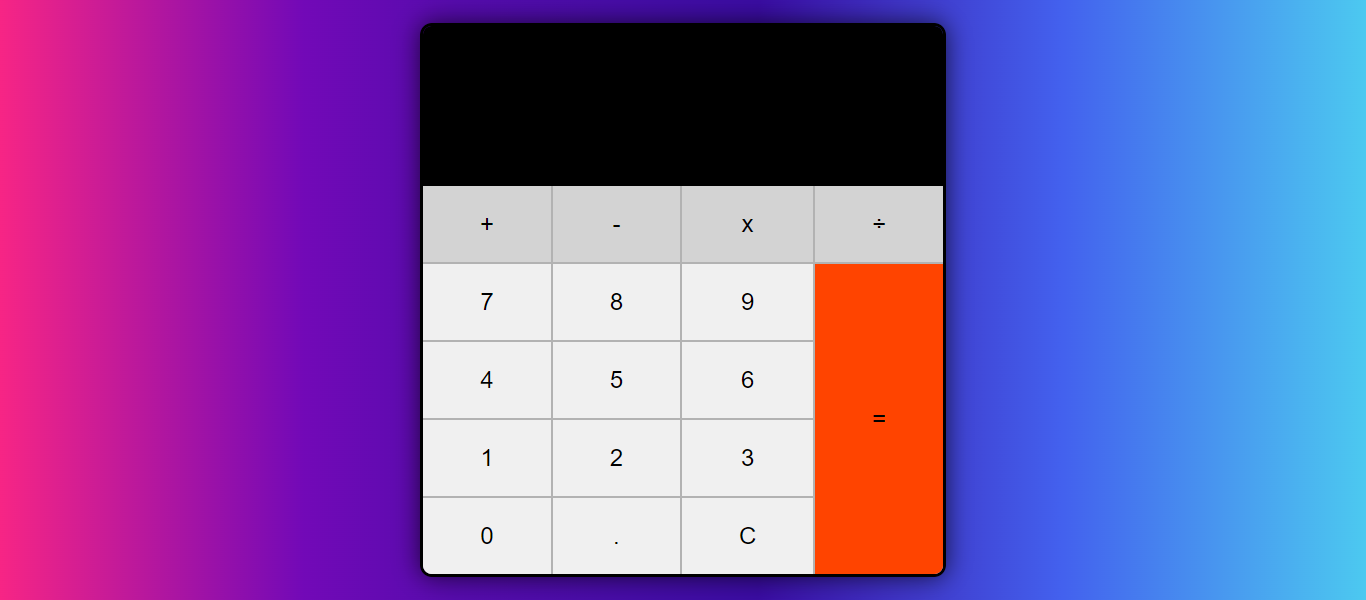
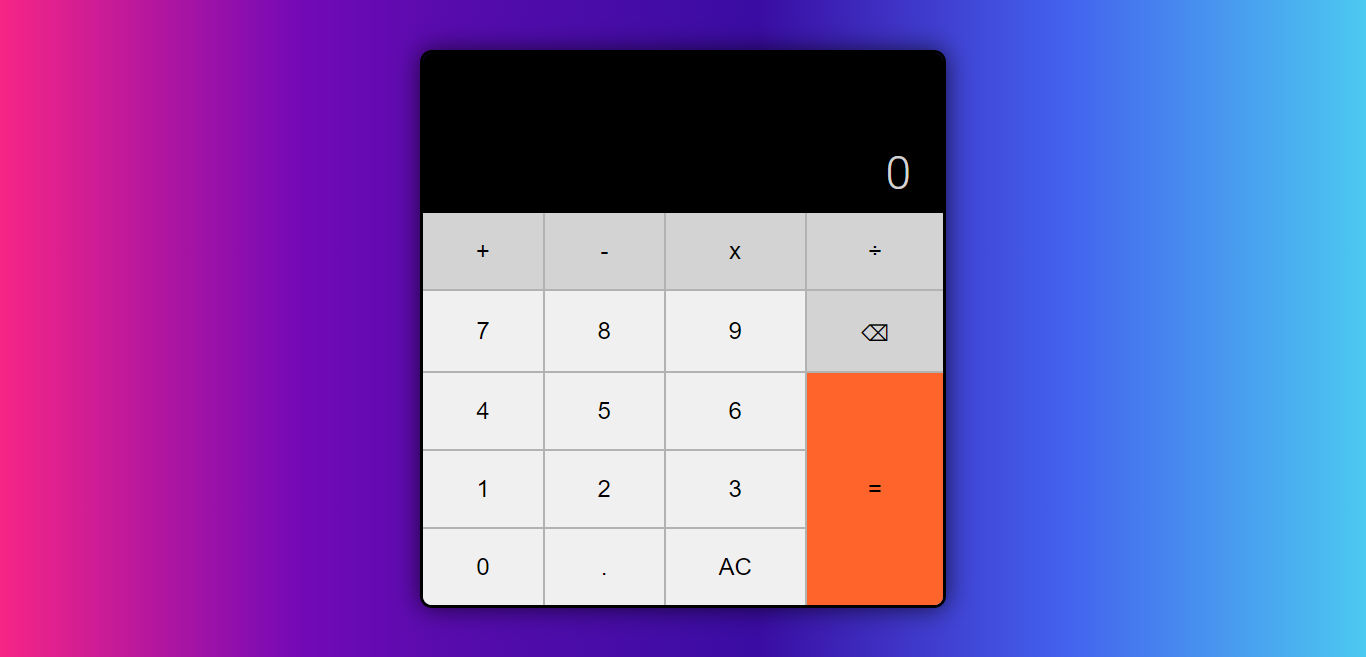
Calculator
Added a backspace button. The buttons change the colors when active.

diff --git a/3-calculator/app.js b/3-calculator/app.js
@@ -2,70 +2,14 @@ let currentNumber = '';
 let previousNumber = '';
 let operator = '';
 
-window.addEventListener('keydown', handleKeyPress)
-
 const currentDisplayNumber = document.querySelector('.display_current');
 const previousDisplayNumber = document.querySelector('.display_previous');
-
 const equal = document.querySelector('.equal');
-equal.addEventListener('click', () => {
-  if(currentNumber != '' && previousNumber != '') {
-    calculate();
-  }
-})
 const decimal = document.querySelector('.decimal');
-decimal.addEventListener('click', () => {
-  addDecimal();
-})
 const clear = document.querySelector('.clear');
-clear.addEventListener('click', clearCalculator)
 const numberButtons = document.querySelectorAll('.number');
 const operators = document.querySelectorAll('.operator');
-
-numberButtons.forEach(btn => {
-  btn.addEventListener('click', (e) => {
-    handleNumber(e.target.textContent);
-  })
-})
-
-function handleNumber (number) {
-  if(previousNumber !== '' && currentNumber !== '' && operator === '') {
-    previousNumber = '';
-    currentDisplayNumber.textContent = currentNumber;
-  }
-  if (currentNumber.length <= 11) {
-    currentNumber += number;
-    currentDisplayNumber.textContent = currentNumber;
-  }
-}
-
-operators.forEach(btn => {
-  btn.addEventListener('click', (e) => {
-    handleOperator(e.target.textContent)
-  })
-})
-
-function handleOperator(op) {
-  if (previousNumber === '') {
-    previousNumber = currentNumber;
-    operatorCheck(op);
-  } else if (currentNumber === '') {
-    operatorCheck(op);
-  } else {
-    calculate();
-    operator = op;
-    currentDisplayNumber.textContent = '0';
-    previousDisplayNumber.textContent = previousNumber + ' ' + operator;
-  }
-}
-
-function operatorCheck (text) {
-  operator = text;
-  previousDisplayNumber.textContent = previousNumber + ' ' + operator;
-  currentDisplayNumber.textContent = '0';
-  currentNumber = '';
-
-}
+const bksp = document.querySelector('.bksp');
 
 function calculate() {
   previousNumber = Number(previousNumber);
@@ -89,10 +33,6 @@ function calculate() {
   displayResults();
 }
 
-function roundNumber(num) {
-  return Math.round(num * 100000) / 100000;
-}
-
 function displayResults() {
   if(previousNumber.length <= 11) {
     currentDisplayNumber.textContent = previousNumber;
@@ -104,12 +44,65 @@ function displayResults() {
   currentNumber = '';
 }
 
-function clearCalculator () {
-  currentNumber = '';
-  previousNumber = '';
-  operator = '';
-  currentDisplayNumber.textContent = '';
-  previousDisplayNumber.textContent = '';
+function roundNumber(num) {
+  return Math.round(num * 100000) / 100000;
+}
+
+window.addEventListener('keydown', handleKeyPress)
+
+function handleKeyPress(e) {
+  e.preventDefault()
+  if(e.key >= 0 && e.key <= 9){
+    processNumber(e.key)
+  }
+  if(
+    e.key === 'Enter' || 
+    e.key === "=" && currentNumber != '' && previousNumber != ''){
+    calculate();
+  }
+  if(
+    e.key === "+" || 
+    e.key === "-" || 
+    e.key === "/") {
+    executeOperator(e.key)
+  }
+  if (e.key === '*') {
+    executeOperator('x');
+  }
+  if(e.key === '.') {
+    addDecimal();
+  }
+  if (e.key === 'Backspace') {
+    handleBackspace();
+  }
+  if (e.key === 'Delete') {
+    clearCalculator();
+  }
+}
+
+function processNumber (number) {
+  if(previousNumber !== '' && currentNumber !== '' && operator === '') {
+    previousNumber = '';
+    currentDisplayNumber.textContent = currentNumber;
+  }
+  if (currentNumber.length <= 11) {
+    currentNumber += number;
+    currentDisplayNumber.textContent = currentNumber;
+  }
+}
+
+function executeOperator(op) {
+  if (previousNumber === '') {
+    previousNumber = currentNumber;
+    operatorCheck(op);
+  } else if (currentNumber === '') {
+    operatorCheck(op);
+  } else {
+    calculate();
+    operator = op;
+    currentDisplayNumber.textContent = '0';
+    previousDisplayNumber.textContent = previousNumber + ' ' + operator;
+  }
 }
 
 function addDecimal () {
@@ -119,33 +112,7 @@ function addDecimal () {
   }
 }
 
-function handleKeyPress(e) {
-  e.preventDefault()
-  if(e.key >= 0 && e.key <= 9){
-    handleNumber(e.key)
-  }
-  if(e.key === 'Enter' || 
-  e.key === "=" && currentNumber != '' && previousNumber != ''){
-    calculate();
-  }
-  if(e.key === "+" || e.key === "-" || e.key === "/") {
-    handleOperator(e.key)
-  }
-  if (e.key === '*') {
-    handleOperator('x');
-  }
-  if(e.key === '.') {
-    addDecimal();
-  }
-  if (e.key === 'Backspace') {
-    handleDelete();
-  }
-  if (e.key === 'Delete') {
-    clearCalculator();
-  }
-}
-
-function handleDelete() {
+function handleBackspace() {
   if (currentNumber != '') {
     currentNumber = currentNumber.slice(0, -1);
     currentDisplayNumber.textContent = currentNumber;
@@ -158,3 +125,46 @@ function handleDelete() {
     currentDisplayNumber.textContent = previousNumber;
   }
 }
+
+function clearCalculator () {
+  currentNumber = '';
+  previousNumber = '';
+  operator = '';
+  currentDisplayNumber.textContent = '';
+  previousDisplayNumber.textContent = '';
+}
+
+function operatorCheck (text) {
+  operator = text;
+  previousDisplayNumber.textContent = previousNumber + ' ' + operator;
+  currentDisplayNumber.textContent = '0';
+  currentNumber = '';
+}
+
+numberButtons.forEach(btn => {
+  btn.addEventListener('click', (e) => {
+    processNumber(e.target.textContent);
+  })
+})
+
+operators.forEach(btn => {
+  btn.addEventListener('click', (e) => {
+    executeOperator(e.target.textContent);
+  })
+})
+
+clear.addEventListener('click', clearCalculator);
+
+equal.addEventListener('click', () => {
+  if(currentNumber != '' && previousNumber != '') {
+    calculate();
+  }
+})
+
+decimal.addEventListener('click', () => {
+  addDecimal();
+})
+
+bksp.addEventListener('click', () => {
+  handleBackspace();
+})

diff --git a/3-calculator/style.css b/3-calculator/style.css
@@ -55,7 +55,7 @@ body {
   grid-template-columns: repeat(4, auto);
   grid-template-areas: 
     ". . . ."
-    "seven eight nine equal"
+    "seven eight nine bksp"
     "four five six equal"
     "one two three equal"
     "zero decimal clear equal";
@@ -66,6 +66,7 @@ button {
   border: 0;
   font-size: .75rem;
   border-color: lightgray;
+  cursor: pointer;
 }
 
 .one {
@@ -103,12 +104,31 @@ button {
 }
 .equal {
   grid-area: equal;
-  background-color: rgb(255, 68, 0);
+  background-color: rgb(255, 100, 43);
+}
 
+.bksp {
+  grid-area: bksp;
+  background-color: lightgrey
 }
 
 .operator {
   background-color: lightgrey;
+}
+
+.operator:active,
+.bksp:active {
+  background-color: grey;
+}
+
+.number:active, 
+.clear:active,
+.decimal:active {
+  background-color: lightgrey;
+}
+
+.equal:active {
+  background-color: rgb(255, 68, 0);
 }
 
 @media (max-width: 640px) {
@@ -128,7 +148,7 @@ button {
 
 @media (max-width: 395px) {
   #calculator_display {
-    width: 8rem;
+    width: auto;
   }
 
   .display_previous {

diff --git a/3-calculator/index.html b/3-calculator/index.html
@@ -30,7 +30,8 @@
         <button class="number nine">9</button>
         <button class="number zero">0</button>
         <button class="decimal">.</button>
-        <button class="clear">C</button>
+        <button class="clear">AC</button>
+        <button class="bksp">⌫</button>
         <button class="equal"> = </button>
       </div>
     </div>

diff --git a/index.html b/index.html
@@ -24,7 +24,7 @@
     </div>
     <div class="container-2">
       <div class="assignments">
-        <img src="" class="assignment-image" alt="">
+        <img src="./images/terminology_definitions.png" class="assignment-image" alt="">
         <div class="assignments-info">
           <h3> Terminology <br> & <br> Definitions </h3>
           <button>
